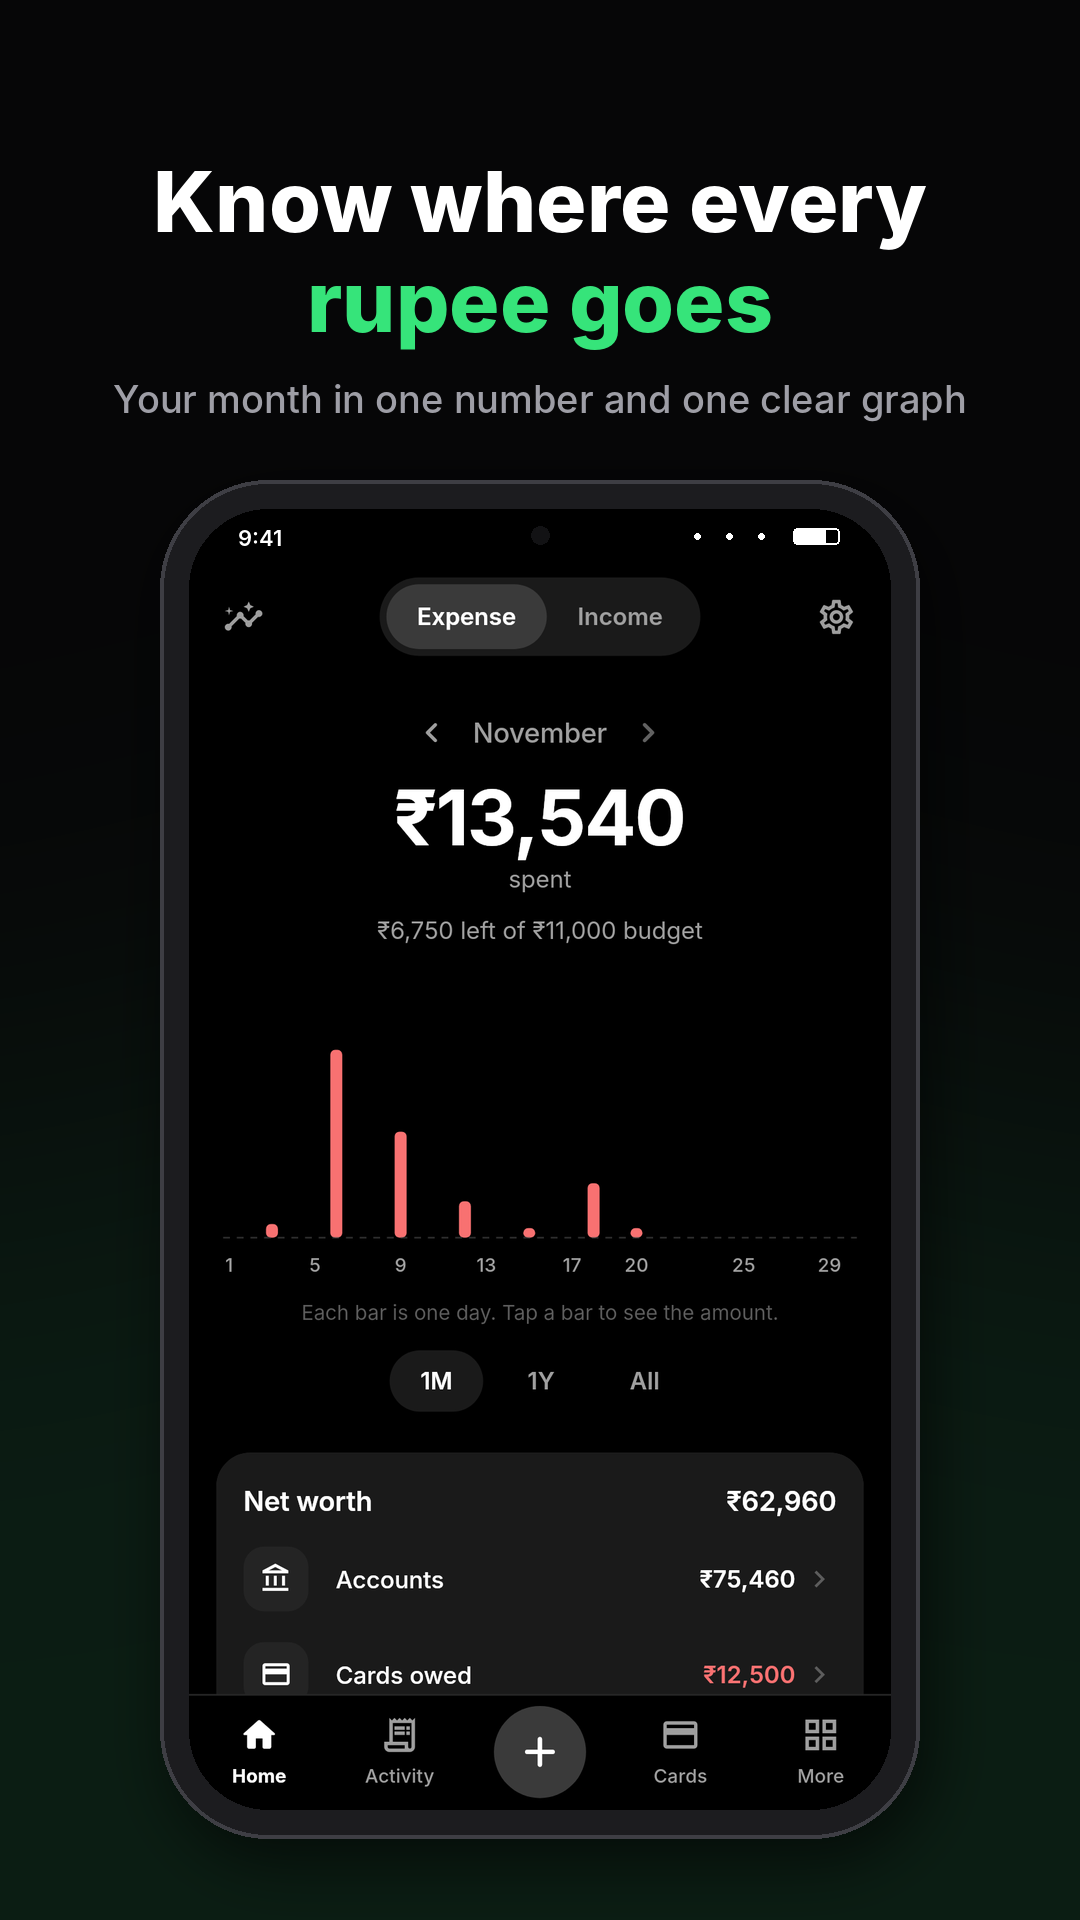
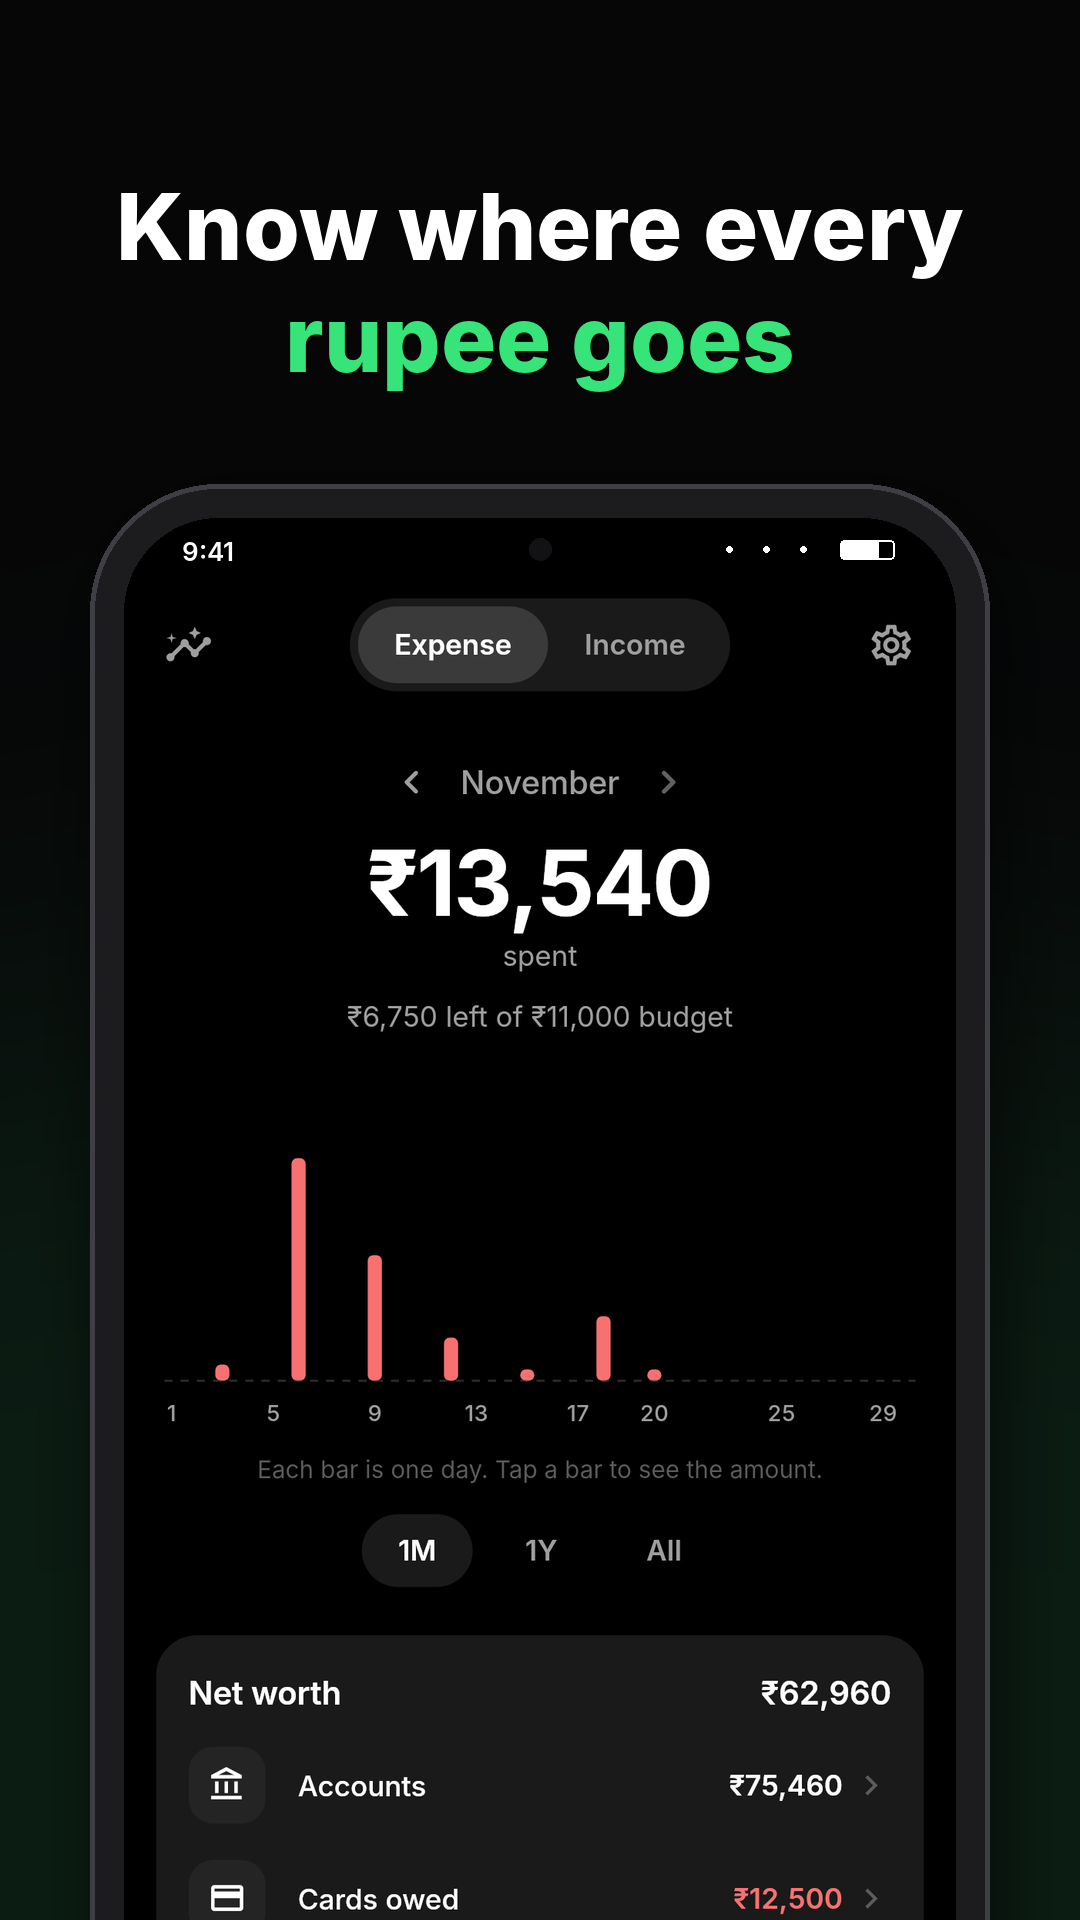
Rupio: simpler Play screenshots
Six screenshots instead of eight, each just a short headline and a large
phone that runs off the bottom edge, so only the top of one screen shows
and it is easy to read. The busy add-entry and duplicate income views are
dropped.

Claude-Session: https://claude.ai/code/session_01UfCBbr7rhvgGosHdgRQSgp

diff --git a/rupeetrack/tool/store/make_store_graphics.py b/rupeetrack/tool/store/make_store_graphics.py
@@ -112,16 +112,15 @@ def feature_graphic():
     im.convert('RGB').save(ROOT / 'store/feature-graphic.png')
 
 
-# Play screenshots: (raw file, headline, highlighted part, subline)
+# Play screenshots: (raw file, headline, highlighted part). Kept short:
+# one headline and the top of one screen, large enough to read.
 SHOTS = [
-    ('1-home', 'Know where every ', 'rupee goes', 'Your month in one number and one clear graph'),
-    ('2-year', 'Your year, ', 'month by month', 'Tap any month to see its days'),
-    ('3-income', 'Income in green, ', 'spending in red', 'See what is left after spending'),
-    ('4-insights', 'Where your income ', 'really goes', 'EMIs, spending and savings in one bar'),
-    ('5-loans', 'Every EMI, ', 'tracked', 'Know the month you become debt-free'),
-    ('6-goals', 'Save first, ', 'then buy', 'How much to put aside every month'),
-    ('7-cards', 'Never miss a ', 'card bill', 'Reminders before every due date'),
-    ('8-add', 'Add a spend ', 'in seconds', 'Amount, category, account. Done.'),
+    ('1-home', 'Know where every ', 'rupee goes'),
+    ('2-year', 'Your year ', 'at a glance'),
+    ('4-insights', 'See where your ', 'income goes'),
+    ('5-loans', 'Every EMI, ', 'tracked'),
+    ('6-goals', 'Reach every ', 'savings goal'),
+    ('7-cards', 'Never miss a ', 'card bill'),
 ]
 
 
@@ -147,24 +146,24 @@ def wrap_headline(d, lead, accent, fnt, max_w):
     return lines
 
 
-def store_screenshot(name, lead, accent, sub):
+def store_screenshot(name, lead, accent):
     w, h = 1080, 1920
-    im = background(w, h, (-200, 1000, 1280, 2300))
+    im = background(w, h, (-200, 900, 1280, 2300))
     d = ImageDraw.Draw(im)
-    big = font('ExtraBold', 84)
-    lines = wrap_headline(d, lead, accent, big, w - 160)
-    y = 150
+    big = font('ExtraBold', 92)
+    lines = wrap_headline(d, lead, accent, big, w - 140)
+    y = 170
     for line in lines:
         text = ' '.join(x for x, _ in line)
         x = (w - d.textlength(text, font=big)) / 2
         for word, color in line:
             d.text((x, y), word, font=big, fill=color)
             x += d.textlength(word + ' ', font=big)
-        y += 100
-    small = font('Medium', 38)
-    d.text(((w - d.textlength(sub, font=small)) / 2, y + 26), sub, font=small, fill=GREY)
-    ph = phone(RAW / f'{name}.png', 760)
-    place(im, ph, (w - ph.width) // 2, y + 130, blur=30)
+        y += 112
+    # A large phone that runs off the bottom edge: only the top of the
+    # screen shows, big enough to read.
+    ph = phone(RAW / f'{name}.png', 900)
+    place(im, ph, (w - ph.width) // 2, y + 90, blur=34)
     return im.convert('RGB')
 
 
@@ -172,8 +171,10 @@ def main():
     feature_graphic()
     out = ROOT / 'store/screenshots/phone'
     out.mkdir(parents=True, exist_ok=True)
-    for name, lead, accent, sub in SHOTS:
-        store_screenshot(name, lead, accent, sub).save(out / f'{name}.png')
+    for old in out.glob('*.png'):
+        old.unlink()
+    for i, (name, lead, accent) in enumerate(SHOTS, 1):
+        store_screenshot(name, lead, accent).save(out / f'{i}-{name.split("-", 1)[1]}.png')
     onb = ROOT / 'assets/onboarding'
     onb.mkdir(parents=True, exist_ok=True)
     for name in ['1-home', '4-insights', '5-loans', '7-cards']:

diff --git a/rupeetrack/store/PLAY_CONSOLE.md b/rupeetrack/store/PLAY_CONSOLE.md
@@ -9,7 +9,7 @@ mentioned are in this `store/` folder.
 |---|---|
 | App icon 512 × 512 | `icon-512.png` |
 | Feature graphic 1024 × 500 | `feature-graphic.png` |
-| Phone screenshots 1080 × 1920 (8) | `screenshots/phone/*.png` |
+| Phone screenshots 1080 × 1920 (6) | `screenshots/phone/*.png` |
 | Title, short and full description (6 languages) | `listing/<language>/` |
 | Privacy policy | `../PRIVACY.md` (see step 4) |
 | App bundle (.aab) | built by GitHub Actions, see step 2 |
